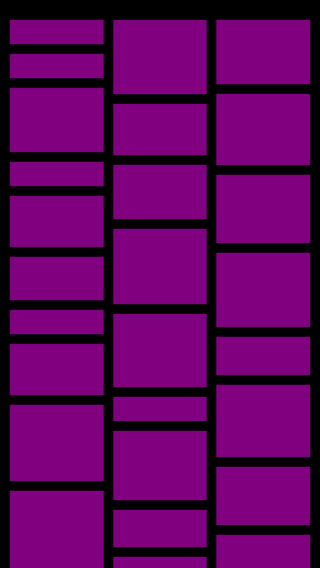
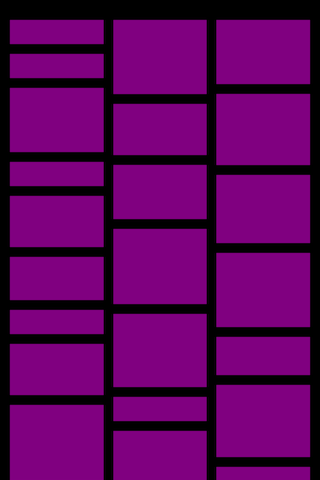
add ScreenShot2.jpg

diff --git a/FSCollectionViewWaterFlowLayout/ImageViewController.swift b/FSCollectionViewWaterFlowLayout/ImageViewController.swift
@@ -23,19 +23,19 @@ class ImageViewController: UIViewController, FSCollectionViewDelegateWaterFlowLa
     
     override func viewDidLoad() {
         super.viewDidLoad()
-
+        
         collectionView.dataSource = self
         collectionView.delegate = self   //设置 FSCollectionViewDelegateWaterFlowLayout 的代理对象
         collectionView.register(UINib(nibName: "FSImageCell", bundle: nil), forCellWithReuseIdentifier: "Cell")
         view.addSubview(collectionView)
         
+        //autolayout
         collectionView.translatesAutoresizingMaskIntoConstraints = false
-        collectionView.frame = view.bounds
-        /*
-         var constraints = NSLayoutConstraint.constraints(withVisualFormat: "V:|[view]|", options: [], metrics: nil, views: ["view":collectionView])
-         constraints.append(contentsOf: NSLayoutConstraint.constraints(withVisualFormat: "H:|[view]|", options: [], metrics: nil, views: ["view":collectionView]))
-         collectionView.addConstraints(constraints)
- */
+        var constraints = NSLayoutConstraint.constraints(withVisualFormat: "V:|[view]|", options: [], metrics: nil, views: ["view":collectionView])
+        constraints.append(contentsOf: NSLayoutConstraint.constraints(withVisualFormat: "H:|[view]|", options: [], metrics: nil, views: ["view":collectionView]))
+        view.addConstraints(constraints)
+ 
+ 
         
     }
     
@@ -52,9 +52,6 @@ class ImageViewController: UIViewController, FSCollectionViewDelegateWaterFlowLa
         let cell = collectionView.dequeueReusableCell(withReuseIdentifier: "Cell", for: indexPath) as! FSImageCell
         cell.imageView.image = UIImage(named: imageNames[indexPath.item])
         cell.textLabel.text = imageNames[indexPath.item]
-        cell.backgroundColor = UIColor.white
-        cell.textLabel.textColor = UIColor.white
-        cell.textLabel.backgroundColor = UIColor.gray
         return cell
     }
     

diff --git a/Sources/FSCollectionViewWaterFlowLayout.swift b/Sources/FSCollectionViewWaterFlowLayout.swift
@@ -15,11 +15,11 @@ public protocol FSCollectionViewDelegateWaterFlowLayout: UICollectionViewDelegat
 }
 
 public class FSCollectionViewWaterFlowLayout: UICollectionViewFlowLayout {
-
-    public var columnCount = 2
-    public var columnMargin:CGFloat = 10
-    public var rowMargin:CGFloat = 10
-    public var edgeInset = UIEdgeInsets.zero
+    
+    public var columnCount = 2  //设置列数，默认为2
+    public var columnMargin:CGFloat = 10    //设置列间距，默认为10
+    public var rowMargin:CGFloat = 10   //设置行间距，默认为10
+    public var edgeInset = UIEdgeInsets.zero    //设置与父视图的边距， 默认为.zero
     
     private var contentHeight:CGFloat = 0.0
     private var columnHeights:[CGFloat] = []
